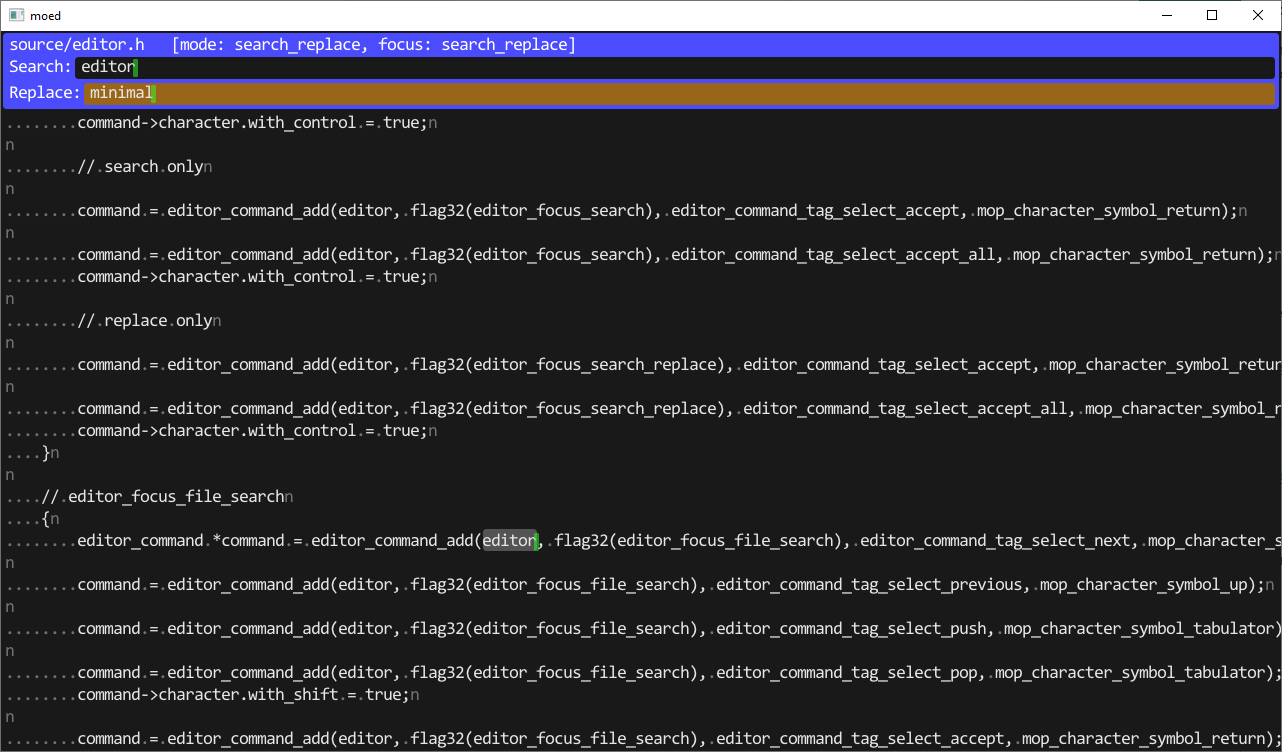
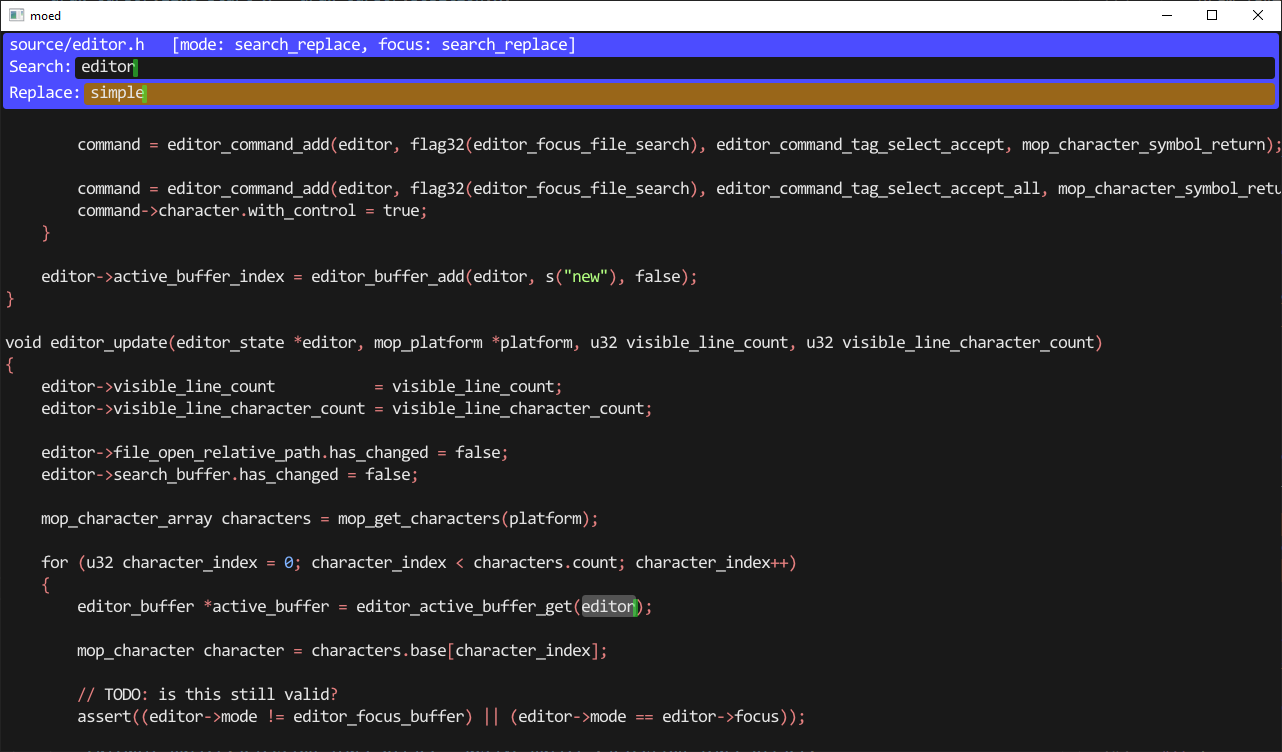
added token highlighting, fixed a scroll selection issue

Changed region(s): [[0.0, 0.0, 1.0, 1.0]]

diff --git a/source/main.c b/source/main.c
@@ -16,6 +16,7 @@
 #define STBTT_assert(x) STBTT_assert_wrapper(x)
 #include "stb_truetype.h"
 
+#define STBI_ASSERT(x) STBTT_assert_wrapper(x)
 #include "stb_image.h"
 
 #define moui_gl_implementation
@@ -93,6 +94,17 @@ const rgba caret_color      = { 0.2f, 1.0f, 0.2f, 0.5f };
 const rgba text_selection_color = { 1.0f, 1.0f, 1.0f, 0.25f };
 const rgba edit_focus_color = { 0.6f, 0.4f, 0.1f, 1.0f };
 
+const rgba text_token_colors[] =
+{
+    { 0.0f, 0.0f, 0.0f, 1.0f }, // empty
+    { 0.4f, 0.4f, 0.4f, 1.0f }, // space
+    { 0.4f, 0.4f, 0.4f, 1.0f }, // newline
+    { 0.9f, 0.9f, 0.9f, 1.0f }, // name
+    { 0.5f, 0.7f, 1.0f, 1.0f }, // number
+    { 0.9f, 0.5f, 0.5f, 1.0f }, // symbol
+    { 0.7f, 1.0f, 0.5f, 1.0f }, // string
+};
+
 f32 editor_box_inset = 4;
 
 typedef enum
@@ -122,8 +134,8 @@ array_type(render_glyph_array, render_glyph);
 #define render_single_line_text_edit_signature void render_single_line_text_edit(moui_state *ui, program_state *program, moui_simple_font font, moui_text_cursor *draw_cursor, editor_editable_buffer *buffer, b8 is_active)
 render_single_line_text_edit_signature;
 
-#define render_single_line_text_signature void render_single_line_text(moui_state *ui, moui_simple_font font, moui_text_cursor *draw_cursor, editor_editable_buffer *buffer, editor_settings settings, moma_arena *tmemory)
-render_single_line_text_signature;
+#define render_text_signature b8 render_text(moui_state *ui, moui_simple_font font, moui_text_cursor *draw_cursor, editor_state *editor, editor_editable_buffer *buffer, editor_settings settings, moma_arena *tmemory, b8 highlight_tokens)
+render_text_signature;
 
 #define render_glyph_add_signature void render_glyph_add(moma_arena *memory, render_glyph_array *glyphs, editor_settings settings, rgba color, u8 *text_base, moui_simple_text_iterator *iterator)
 render_glyph_add_signature;
@@ -167,7 +179,7 @@ int main(int argument_count, char *arguments[])
 
     editor_init(&program->editor, &platform);
     program->settings.max_file_display_count = 16;
-    program->settings.show_white_space = true;
+    program->settings.show_white_space = false;
 
     {
         editor_state *editor = &program->editor;
@@ -514,58 +526,94 @@ mop_hot_update_signature
 
         editable_buffer.text.count = editable_buffer.cursor_offset;
         editable_buffer.cursor_offset          = cursor_offset;
-        editable_buffer.selection_start_offset = editable_buffer.selection_start_offset - active_buffer->draw_line_offset;
 
-        render_single_line_text(ui, font, &draw_cursor, &editable_buffer, program->settings, &program->memory);
+        if (editable_buffer.selection_start_offset < active_buffer->draw_line_offset)
+            editable_buffer.selection_start_offset = 0;
+        else
+        {
+            editable_buffer.selection_start_offset = min(editable_buffer.selection_start_offset - active_buffer->draw_line_offset, editable_buffer.text.count);
+        }
+
+        if (render_text(ui, font, &draw_cursor, editor, &editable_buffer, program->settings, &program->memory, true))
+            editable_buffer.selection_start_offset = editable_buffer.selection_start_offset + active_buffer->draw_line_offset;
+        else
+            editable_buffer.selection_start_offset = active_buffer->selection_start_offset;
 
         editable_buffer.text                   = text;
         editable_buffer.cursor_offset          = editable_buffer.cursor_offset + active_buffer->draw_line_offset;
-        editable_buffer.selection_start_offset = editable_buffer.selection_start_offset + active_buffer->draw_line_offset;
 
         editor_buffer_edit_end(editor, active_buffer, editable_buffer);
     }
 }
 
-render_single_line_text_signature
+void render_append_glyphs(moma_arena *memory, render_glyph_array *glyphs, editor_state *editor, editor_settings settings, string text, moui_simple_text_iterator *text_iterator)
+{
+    while (text_iterator->text.count)
+    {
+        editor_token token = editor_token_advance(editor, &text_iterator->text);
+        assert(token.text.count);
+
+        string remaining_text = text_iterator->text;
+        text_iterator->text = token.text;
+
+        assert(token.tag < carray_count(text_token_colors));
+        rgba token_color = text_token_colors[token.tag];
+
+        while (text_iterator->text.count)
+            render_glyph_add(memory, glyphs, settings, token_color, text.base, text_iterator);
+
+        text_iterator->text = remaining_text;
+    }
+}
+
+render_text_signature
 {
     usize tmemory_frame = tmemory->used_count;
 
     string text = buffer->text;
     assert(buffer->cursor_offset <= text.count);
 
-    string left = { text.base, buffer->cursor_offset };
+    u32 cursor_offset = buffer->cursor_offset;
+    editor_token current_token = editor_buffer_to_current_token_start(editor, buffer);
+
+    u32 current_token_offset = buffer->cursor_offset;
+    buffer->cursor_offset = cursor_offset;
+
+    string left = mos_substring(text, 0, current_token_offset);
 
     moui_simple_text_iterator text_iterator = { font, *draw_cursor, left };
 
-    draw_text_closest_hit closest_hit = {0};
-    closest_hit.x_distance = 1000000.0f;
-    closest_hit.y_distance = 1000000.0f;
-
     render_glyph_array glyphs = {0};
 
-    while (text_iterator.text.count)
-    {
-        render_glyph_add(tmemory, &glyphs, settings, text_color, text.base, &text_iterator);
-    }
+    render_append_glyphs(tmemory, &glyphs, editor, settings, text, &text_iterator);
 
+    // render token where the cursor is dividing it into a left and right part
+    // so we can place the caret properly
     box2 caret_box;
-    caret_box.min = text_iterator.cursor.position;
-    caret_box.min.x -= 2;
-    caret_box.min.y -= font.bottom_to_line;
-    caret_box.max = vec2_add(caret_box.min, sl(vec2) { 5, (f32) font.line_height });
+    {
+        string caret_left = mos_substring(current_token.text, 0, (usize) (text.base + buffer->cursor_offset - current_token.text.base));
+
+        rgba token_color = text_token_colors[current_token.tag];
+
+        text_iterator.text = caret_left;
+        while (text_iterator.text.count)
+            render_glyph_add(tmemory, &glyphs, settings, token_color, text.base, &text_iterator);
+
+        caret_box.min = text_iterator.cursor.position;
+        caret_box.min.x -= 2;
+        caret_box.min.y -= font.bottom_to_line;
+        caret_box.max = vec2_add(caret_box.min, sl(vec2) { 5, (f32) font.line_height });
+
+        string caret_right = mos_remaining_substring(current_token.text, caret_left.count);
+
+        text_iterator.text = caret_right;
+        while (text_iterator.text.count)
+            render_glyph_add(tmemory, &glyphs, settings, token_color, text.base, &text_iterator);
+    }
 
     // right
-    text_iterator.text = sl(string) { text.base + buffer->cursor_offset, text.count - buffer->cursor_offset };
-    while (text_iterator.text.count)
-    {
-        render_glyph_add(tmemory, &glyphs, settings, text_color, text.base, &text_iterator);
-    }
-
-    if (closest_hit.text_base)
-    {
-        buffer->cursor_offset = (u32) (closest_hit.text_base - buffer->text.base);
-        assert(buffer->cursor_offset <= text.count);
-    }
+    text_iterator.text = mos_remaining_substring(text, current_token_offset + current_token.text.count);
+    render_append_glyphs(tmemory, &glyphs, editor, settings, text, &text_iterator);
 
     // render
     {
@@ -622,6 +670,7 @@ render_single_line_text_signature
     }
 
     // check mouse selection
+    b8 selection_start_changed = false;
     if (ui->input.cursor_active_mask & 1)
     {
         f32 closest_distance_x = 100000.0f;
@@ -640,7 +689,6 @@ render_single_line_text_signature
                 y_distance = ui->input.cursor.y - bounding_box.max.y;
 
             u32 text_offset = glyph.text_offset;
-        #if 1
             f32 x_center = (bounding_box.min.x + bounding_box.max.x) * 0.5f;
             f32 x_distance;
             if (ui->input.cursor.x < x_center)
@@ -650,13 +698,6 @@ render_single_line_text_signature
                 x_distance = ui->input.cursor.x - x_center;
                 text_offset += glyph.text_count;
             }
-        #else
-            f32 x_distance = 0;
-            if (ui->input.cursor.x < bounding_box.min.x)
-                x_distance = bounding_box.min.x - ui->input.cursor.x;
-            else if (ui->input.cursor.x >= bounding_box.max.x)
-                x_distance = ui->input.cursor.x - bounding_box.max.x;
-        #endif
 
             if (y_distance < closest_distance_y)
             {
@@ -676,7 +717,10 @@ render_single_line_text_signature
             buffer->cursor_offset = closest_text_offset;
 
             if ((ui->input.previous_cursor_active_mask & 1) == 0)
+            {
                 buffer->selection_start_offset = buffer->cursor_offset;
+                selection_start_changed = true;
+            }
         }
     }
 
@@ -699,6 +743,8 @@ render_single_line_text_signature
     *draw_cursor = text_iterator.cursor;
 
     tmemory->used_count = tmemory_frame;
+
+    return selection_start_changed;
 }
 
 render_glyph_add_signature
@@ -720,7 +766,7 @@ render_glyph_add_signature
         if (settings.show_white_space)
         {
             render_code = 'n';
-            *(vec3 *) &color = vec3_scale(*(vec3 *) &color, 0.5f);
+            // *(vec3 *) &color = vec3_scale(*(vec3 *) &color, 0.5f);
         }
         else
         {
@@ -733,7 +779,7 @@ render_glyph_add_signature
     if ((render_code == ' ') && settings.show_white_space)
     {
         render_code = '.';
-        *(vec3 *) &color = vec3_scale(*(vec3 *) &color, 0.5f);
+        // *(vec3 *) &color = vec3_scale(*(vec3 *) &color, 0.5f);
     }
 
     moui_f32 bottom_to_line = iterator->font.bottom_to_line;
@@ -795,7 +841,7 @@ render_single_line_text_edit_signature
     f32 min_x = draw_cursor->position.x;
     moui_box2 edit_box = moui_used_box_begin(ui);
 
-    render_single_line_text(ui, font, draw_cursor, buffer, program->settings, &program->memory);
+    render_text(ui, font, draw_cursor, editor, buffer, program->settings, &program->memory, false);
     moui_text_cursor_advance_line(font, draw_cursor);
 
     edit_box = moui_used_box_end(ui, edit_box);

diff --git a/source/editor.h b/source/editor.h
@@ -201,6 +201,7 @@ mo_string_list(editor_focus_names, editor_list_focus);
 #define editor_list_token(macro, ...) \
     macro(empty, __VA_ARGS__) \
     macro(space, __VA_ARGS__) \
+    macro(newline, __VA_ARGS__) \
     macro(name, __VA_ARGS__) \
     macro(number, __VA_ARGS__) \
     macro(symbol, __VA_ARGS__) \
@@ -260,6 +261,7 @@ typedef struct
 
     u32 active_buffer_index;
     u32 tab_space_count;
+    b8 skip_quoated_string_tokens;
 
     editor_command commands[512];
     u32            command_count;
@@ -443,6 +445,7 @@ void editor_init(editor_state *editor, mop_platform *platform)
     moma_create(memory, platform, 1 << 30); // 1 gb
 
     editor->tab_space_count = 4;
+    editor->skip_quoated_string_tokens = true;
 
     editor->visible_line_count_top    = 5;
     editor->visible_line_count_bottom = editor->visible_line_count_top;
@@ -1941,8 +1944,38 @@ editor_buffer_count_right_spaces_signature
 
 editor_buffer_to_current_token_start_signature
 {
-    if (!editor_buffer_move_left(editor, buffer).byte_count)
-        return sl(editor_token) { editor_token_tag_empty, buffer->text };
+    if (!buffer->cursor_offset)
+        return sl(editor_token) { editor_token_tag_empty, mos_substring(buffer->text, 0, 0) };
+
+    u8 *cursor = buffer->text.base + buffer->cursor_offset;
+
+    // assuming tokens don't include new lines, this is probably the most relybale way to get the current token
+    if (!editor_buffer_to_line_start(editor, buffer))
+    {
+        u32 byte_count = editor_buffer_move_left(editor, buffer).byte_count;
+        assert(byte_count);
+        return sl(editor_token) { editor_token_tag_newline, mos_substring(buffer->text, buffer->cursor_offset, 1) };
+    }
+
+    string text = mos_remaining_substring(buffer->text, buffer->cursor_offset);
+    assert(text.count);
+
+    editor_token token;
+    while (text.count)
+    {
+        token = editor_token_advance(editor, &text);
+        assert(token.text.count);
+
+        u8 *token_end = token.text.base + token.text.count;
+        if (token_end >= cursor)
+            break;
+    }
+
+    buffer->cursor_offset = (u32) (token.text.base - buffer->text.base);
+    return token;
+
+#if 0
+
 
     string text = mos_remaining_substring(buffer->text, buffer->cursor_offset);
     editor_token current_token = editor_token_advance(editor, &text);
@@ -1966,6 +1999,7 @@ editor_buffer_to_current_token_start_signature
     current_token.text.base  = buffer->text.base + buffer->cursor_offset;
     current_token.text.count = (usize) (current_token_end - current_token.text.base);
     return current_token;
+#endif
 }
 
 editor_get_absolute_path_signature
@@ -2253,25 +2287,51 @@ editor_token_advance_signature
 
     string start = *iterator;
 
-    if (mos_skip_white_space(iterator))
+    if (mos_try_skip(iterator, s("\n")))
+        return sl(editor_token) { editor_token_tag_newline, mos_substring_until_end(start, *iterator) };
+
+    if (mos_skip_set(iterator, s(" \t")))
         return sl(editor_token) { editor_token_tag_space, mos_substring_until_end(start, *iterator) };
 
-    f64 f64_value;
-    s64 s64_value;
-    u64 u64_value;
-    if (mos_parse_f64(&f64_value, iterator) || mos_parse_s64(&s64_value, iterator) || mos_parse_u64(&u64_value, iterator))
-        return sl(editor_token) { editor_token_tag_number, mos_substring_until_end(start, *iterator) };
+    {
+        f64 f64_value;
+        s64 s64_value;
+        u64 u64_value;
 
-    if (mos_try_skip(iterator, s("\"")))
+        if (!mos_try_skip(iterator, s("0x")) || !mos_parse_u64_ex(&u64_value, iterator, 16))
+            *iterator = start;
+
+        if (!mos_try_skip(iterator, s("0b")) || !mos_parse_u64_ex(&u64_value, iterator, 2))
+            *iterator = start;
+
+        if (start.base == iterator->base)
+            mos_parse_f64(&f64_value, iterator) || mos_parse_s64(&s64_value, iterator) || mos_parse_u64(&u64_value, iterator);
+
+        if (start.base < iterator->base)
+        {
+            // HACK: skip suffixes
+            mos_skip_set(iterator, s("fFuUlL"));
+
+            return sl(editor_token) { editor_token_tag_number, mos_substring_until_end(start, *iterator) };
+        }
+    }
+
+    if (editor->skip_quoated_string_tokens && mos_try_skip(iterator, s("\"")))
     {
         while (iterator->count)
         {
-            u32 head = mos_utf8_advance(iterator).utf32_code;
+            mos_utf8_result result = mos_utf8_advance(iterator);
 
-            if (iterator->count && (head == '\\'))
+            if (iterator->count && (result.utf32_code == '\\'))
                 mos_utf8_advance(iterator);
-            else if (head == '"')
+            else if (result.utf32_code == '"')
                 break;
+            else if (result.utf32_code == '\n')
+            {
+                iterator->base  -= result.byte_count;
+                iterator->count += result.byte_count;
+                break;
+            }
         }
 
         return sl(editor_token) { editor_token_tag_string, mos_substring_until_end(start, *iterator) };
